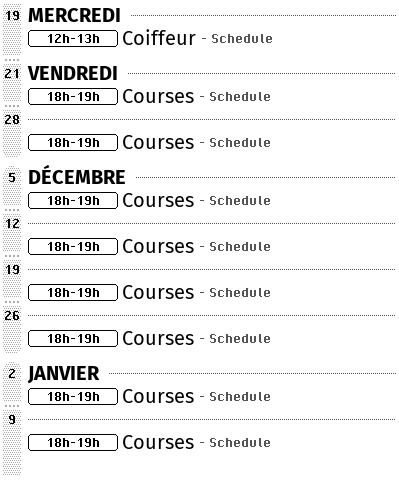
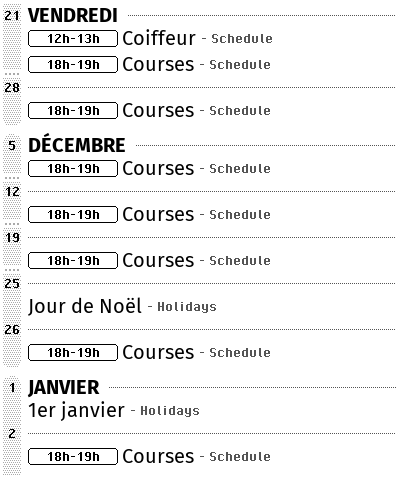
use fixtures for all tests

diff --git a/src/verdandi/tests/conftest.py b/src/verdandi/tests/conftest.py
@@ -13,42 +13,9 @@ from aioresponses import aioresponses
 from httpx import ASGITransport, AsyncClient
 
 
-import verdandi.configuration
 from verdandi.app import app
 
 FIXTURES_PATH = Path(__file__).parent / "fixtures"
-
-
-@pytest.fixture(autouse=True)
-def anyio_backend():
-    return "asyncio"
-
-
-@pytest.fixture
-def base_url() -> str:
-    return "http://verdandi"
-
-
-@pytest.fixture
-async def client(base_url: str, monkeypatch) -> AsyncGenerator[AsyncClient]:
-    test_config_path = FIXTURES_PATH / "test-config.yaml"
-    test_env = {"VERDANDI_CONFIG_FILE": str(test_config_path)}
-
-    with (
-        mock.patch.dict(os.environ, test_env, clear=True),
-        monkeypatch.context() as m,
-    ):
-        m.setattr(
-            verdandi.configuration,
-            "configuration",
-            verdandi.configuration.ApiConfiguration.load(test_config_path),
-        )
-
-        async with AsyncClient(
-            transport=ASGITransport(app=app),
-            base_url=base_url,
-        ) as client:
-            yield client
 
 
 @asynccontextmanager
@@ -62,6 +29,7 @@ async def get_mocked_http() -> AsyncGenerator[aiohttp.ClientSession, None]:
                 mock.get(
                     re.compile("^https://api.open-meteo.com/v1/forecast.*$"),
                     payload=json.load(f),
+                    repeat=True,
                 )
 
             with open(FIXTURES_PATH / "velib" / "station_information.json") as f:
@@ -70,6 +38,7 @@ async def get_mocked_http() -> AsyncGenerator[aiohttp.ClientSession, None]:
                         "^https://velib-metropole-opendata.smovengo.cloud/opendata/Velib_Metropole/station_information.json$"
                     ),
                     payload=json.load(f),
+                    repeat=True,
                 )
 
             with open(FIXTURES_PATH / "velib" / "station_status.json") as f:
@@ -78,18 +47,21 @@ async def get_mocked_http() -> AsyncGenerator[aiohttp.ClientSession, None]:
                         "^https://velib-metropole-opendata.smovengo.cloud/opendata/Velib_Metropole/station_status.json$"
                     ),
                     payload=json.load(f),
+                    repeat=True,
                 )
 
             with open(FIXTURES_PATH / "ics" / "french-holidays.ics") as f:
                 mock.get(
                     re.compile("^https://calendar-url/french-holidays.ics$"),
                     body=f.read(),
+                    repeat=True,
                 )
 
             with open(FIXTURES_PATH / "ics" / "schedule.ics") as f:
                 mock.get(
                     re.compile("^https://calendar-url/schedule.ics$"),
                     body=f.read(),
+                    repeat=True,
                 )
 
             yield http
@@ -99,3 +71,26 @@ async def get_mocked_http() -> AsyncGenerator[aiohttp.ClientSession, None]:
 async def http() -> AsyncGenerator[aiohttp.ClientSession]:
     async with get_mocked_http() as http:
         yield http
+
+
+@pytest.fixture(autouse=True)
+def anyio_backend():
+    return "asyncio"
+
+
+@pytest.fixture
+def base_url() -> str:
+    return "http://verdandi"
+
+
+@pytest.fixture
+async def client(base_url: str, monkeypatch, http) -> AsyncGenerator[AsyncClient]:
+    test_config_path = FIXTURES_PATH / "test-config.yaml"
+    test_env = {"VERDANDI_CONFIG_FILE": str(test_config_path)}
+
+    with mock.patch.dict(os.environ, test_env, clear=True):
+        async with AsyncClient(
+            transport=ASGITransport(app=app),
+            base_url=base_url,
+        ) as client:
+            yield client

diff --git a/src/verdandi/app.py b/src/verdandi/app.py
@@ -11,7 +11,7 @@ from pydantic import BaseModel, AnyHttpUrl
 
 from verdandi.util.color import CW
 from verdandi.state import DepState
-from verdandi.configuration import configuration
+from verdandi.configuration import ApiConfiguration
 from verdandi.util.logging import async_log_duration
 from verdandi.util.image import image_to_bytes
 
@@ -28,7 +28,7 @@ app = FastAPI(
 
 
 @async_log_duration(logger, "Canvas generation")
-async def _generate_canvas():
+async def _generate_canvas(configuration: ApiConfiguration):
     # Render all widgets concurently
     connector = aiohttp.TCPConnector(ssl=False)  # TODO: is this a NixOS issue?
 
@@ -74,7 +74,12 @@ async def canvas_prepare(
     ] = False,
 ) -> RedirectResponse:
     entry_id = uuid4()
-    task = asyncio.create_task(_generate_canvas(), name=f"generate-canvas-{entry_id}")
+
+    task = asyncio.create_task(
+        _generate_canvas(state.configuration),
+        name=f"generate-canvas-{entry_id}",
+    )
+
     await state.set_response(entry_id, task)
 
     if wait:
@@ -84,7 +89,7 @@ async def canvas_prepare(
         filename=str(entry_id),
         url=AnyHttpUrl(
             os.path.join(
-                str(configuration.base_url),
+                str(state.configuration.base_url),
                 f"canvas/redirect-get/{entry_id}/",
             )
         ),
@@ -119,4 +124,4 @@ async def canvas_retreive(
 async def canvas_direct(
     state: DepState,
 ):
-    return await _generate_canvas()
+    return await _generate_canvas(state.configuration)

diff --git a/src/verdandi/configuration.py b/src/verdandi/configuration.py
@@ -8,9 +8,6 @@ from pydantic import BaseModel, Field, AnyHttpUrl
 from verdandi.widget import ALL_WIDGETS
 
 
-CONFIGURATION_PATH = os.getenv("VERDANDI_CONFIG_FILE", "api-config.yaml")
-
-
 def widget_config_for(widget_type):
     class WidgetConfiguration(BaseModel):
         name: Literal[widget_type.name]  # ty: ignore[invalid-type-form]
@@ -30,10 +27,10 @@ class ApiConfiguration(BaseModel):
 
     @classmethod
     def load(cls, path: str | Path | None = None) -> "ApiConfiguration":
-        with open(path or CONFIGURATION_PATH) as file:
+        if path is None:
+            path = os.getenv("VERDANDI_CONFIG_FILE", "api-config.yaml")
+
+        with open(path) as file:
             data = yaml.load(file, Loader=getattr(yaml, "CSafeLoader", yaml.SafeLoader))
 
         return cls(**data)
-
-
-configuration: ApiConfiguration = ApiConfiguration.load()

diff --git a/src/verdandi/state.py b/src/verdandi/state.py
@@ -8,6 +8,8 @@ from fastapi import Depends, Response
 from pydantic import BaseModel, Field
 
 
+from verdandi.configuration import ApiConfiguration
+
 MAX_REGISTRY_DURATION: timedelta = timedelta(hours=3)
 
 
@@ -26,6 +28,7 @@ class RegistryEntry(BaseModel, arbitrary_types_allowed=True):
 
 
 class AppState(BaseModel, arbitrary_types_allowed=True):
+    configuration: ApiConfiguration = Field(default_factory=ApiConfiguration.load)
     response_registry: dict[UUID, RegistryEntry] = Field(default_factory=dict)
     response_registry_lock: asyncio.Lock = Field(default_factory=asyncio.Lock)
 

diff --git a/src/verdandi/tests/test_metric_ics.py b/src/verdandi/tests/test_metric_ics.py
@@ -32,8 +32,8 @@ def test_velib(ics: ICSMetric):
     tz = ZoneInfo("Europe/Paris")
 
     assert ics.upcoming[0].summary == "Coiffeur"
-    assert ics.upcoming[0].date_start == datetime(2025, 11, 19, 12, 0, tzinfo=tz)
-    assert ics.upcoming[0].date_end == datetime(2025, 11, 19, 13, 0, tzinfo=tz)
+    assert ics.upcoming[0].date_start == datetime(2025, 11, 21, 12, 0, tzinfo=tz)
+    assert ics.upcoming[0].date_end == datetime(2025, 11, 21, 13, 0, tzinfo=tz)
     assert ics.upcoming[0].calendar.label == "Schedule"
 
     for idx in range(1, 6):

diff --git a/src/verdandi/widget/calendar.py b/src/verdandi/widget/calendar.py
@@ -70,7 +70,11 @@ class Calendar3x4(Widget):
 
         for event in ics.upcoming:
             date_curr = event.date_start.date()
-            date_end = (event.date_end - timedelta(seconds=1)).date()
+
+            if event.date_start < event.date_end:
+                date_end = (event.date_end - timedelta(seconds=1)).date()
+            else:
+                date_end = date_curr
 
             while date_curr <= date_end:
                 events_per_day.setdefault(date_curr, []).append(event)
